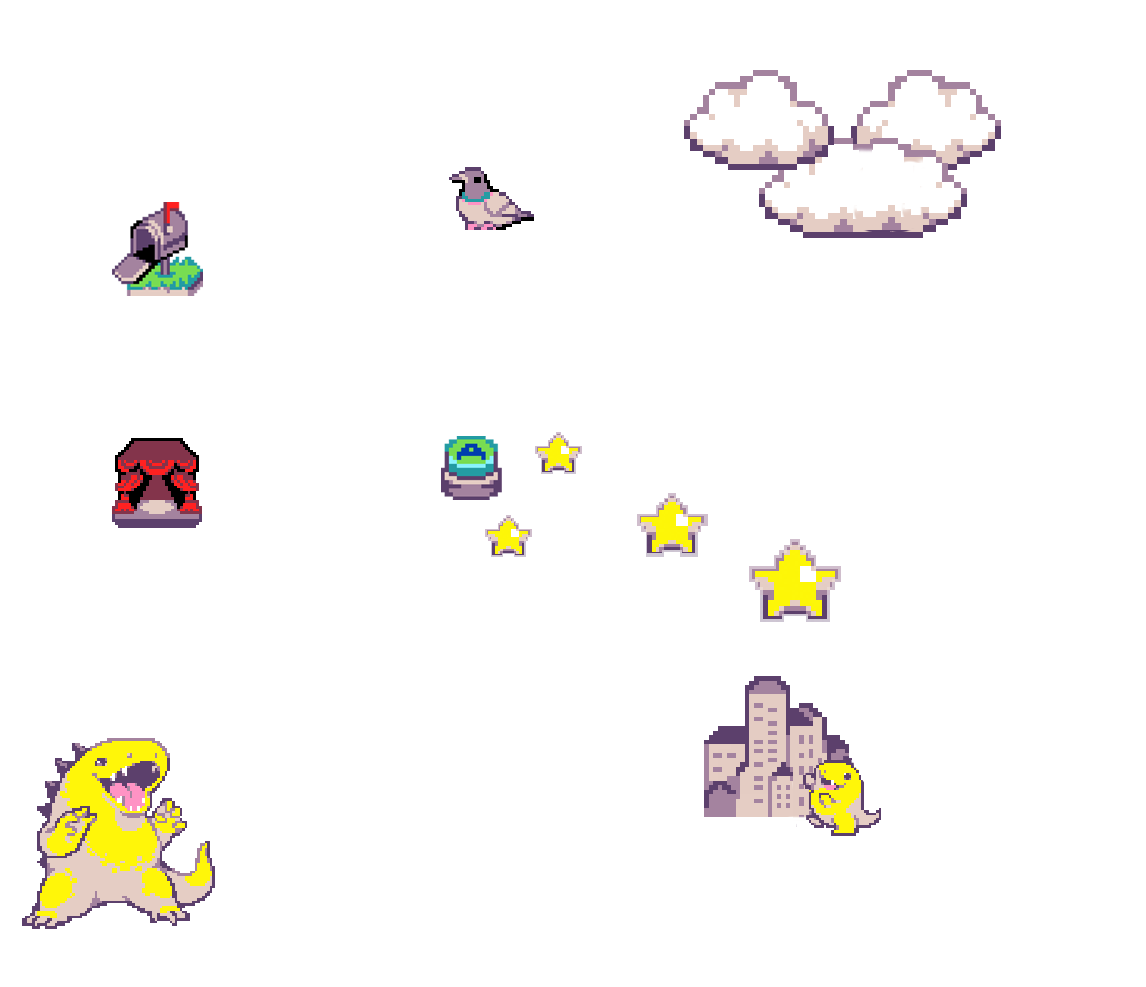
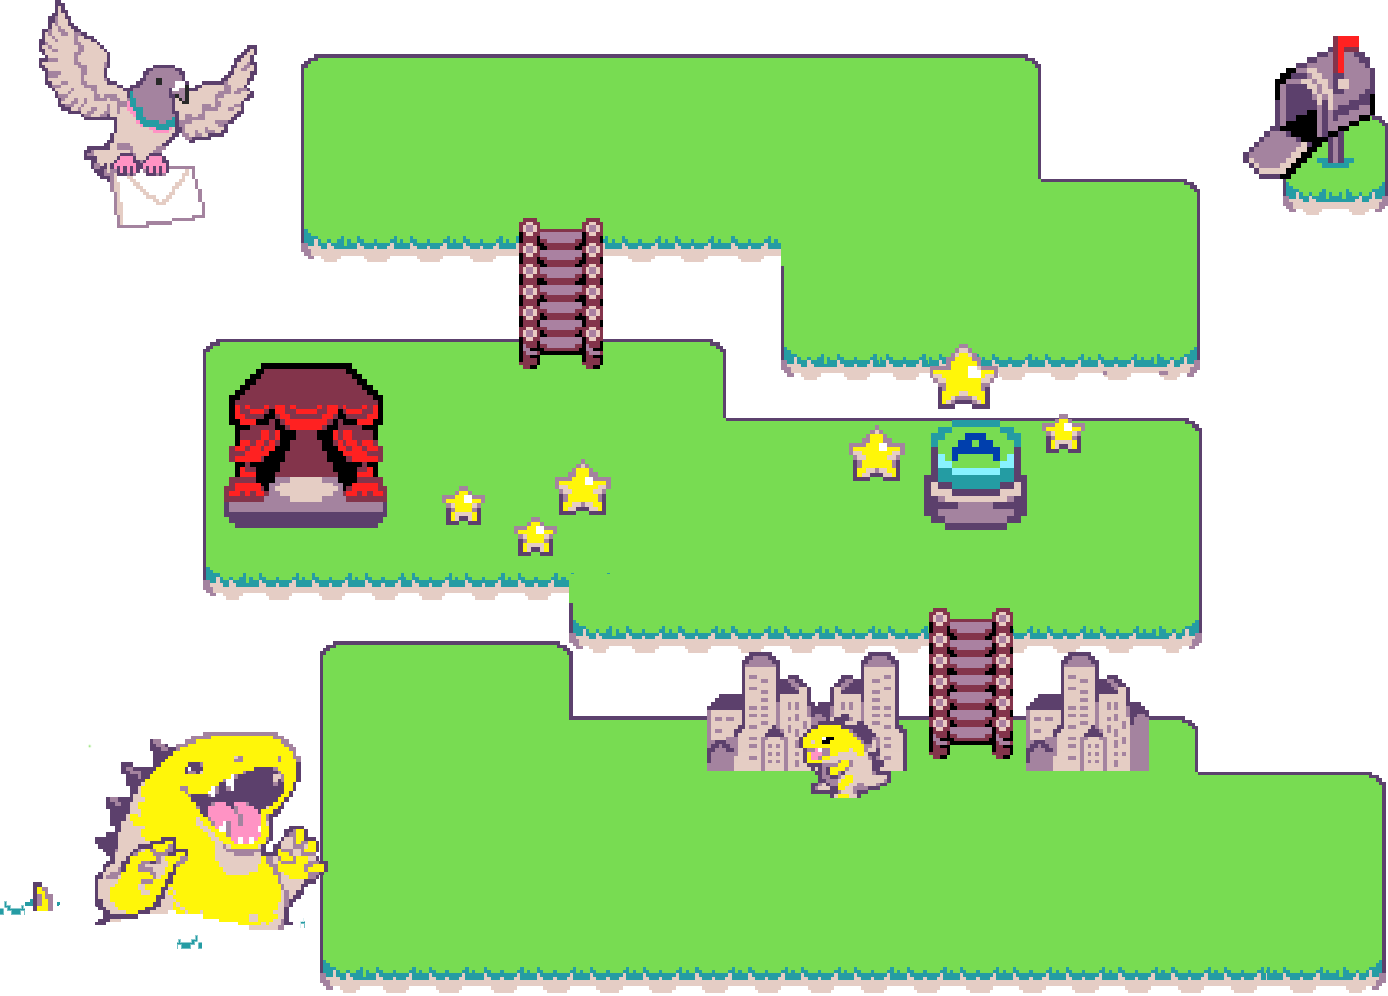
Updating BG for skillmap (#3533)
* Updating BG for skillmap

* Changed completed color

diff --git a/docs/skillmap/beginner-skillmap.md b/docs/skillmap/beginner-skillmap.md
@@ -7,7 +7,7 @@
 * primarycolor: #ff7f41
 * secondarycolor: #fff53d
 * tertiarycolor: #87f2ff
-* completednodecolor: #a68b47
+* completednodecolor: #372b4e
 * highlightcolor: #ffffff
 * allowcodecarryover: true
 * tags: easy, beginner, tutorials

diff --git a/docs/skillmap/beg-skillmap-split.md b/docs/skillmap/beg-skillmap-split.md
@@ -8,7 +8,7 @@
 * secondarycolor: #fff53d
 * tertiarycolor: #87f2ff
 * highlightcolor: #ffffff
-* completednodecolor: #a68b47
+* completednodecolor: #372b4e
 * allowcodecarryover: true
 * tags: easy, beginner, tutorials
 
